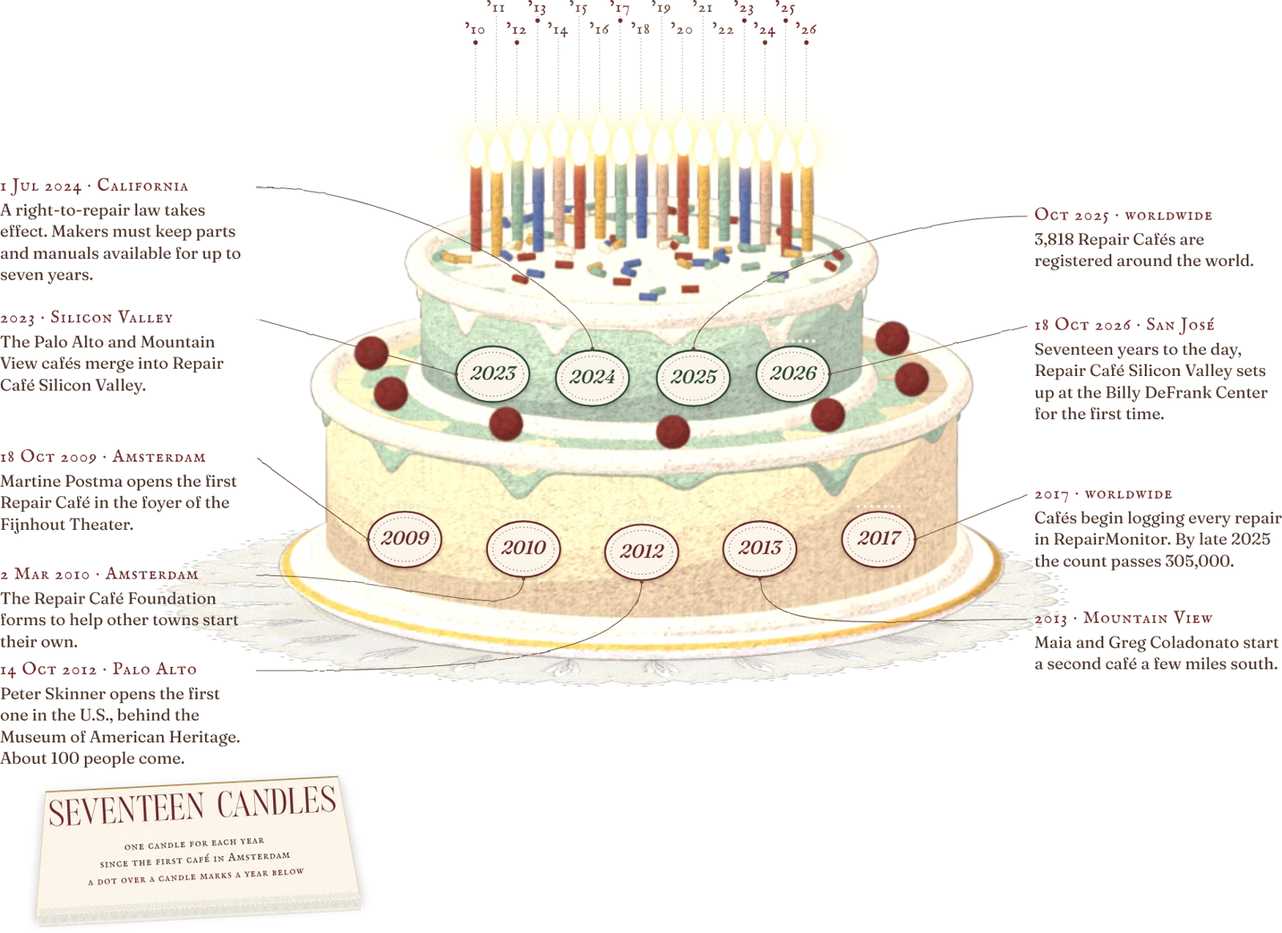
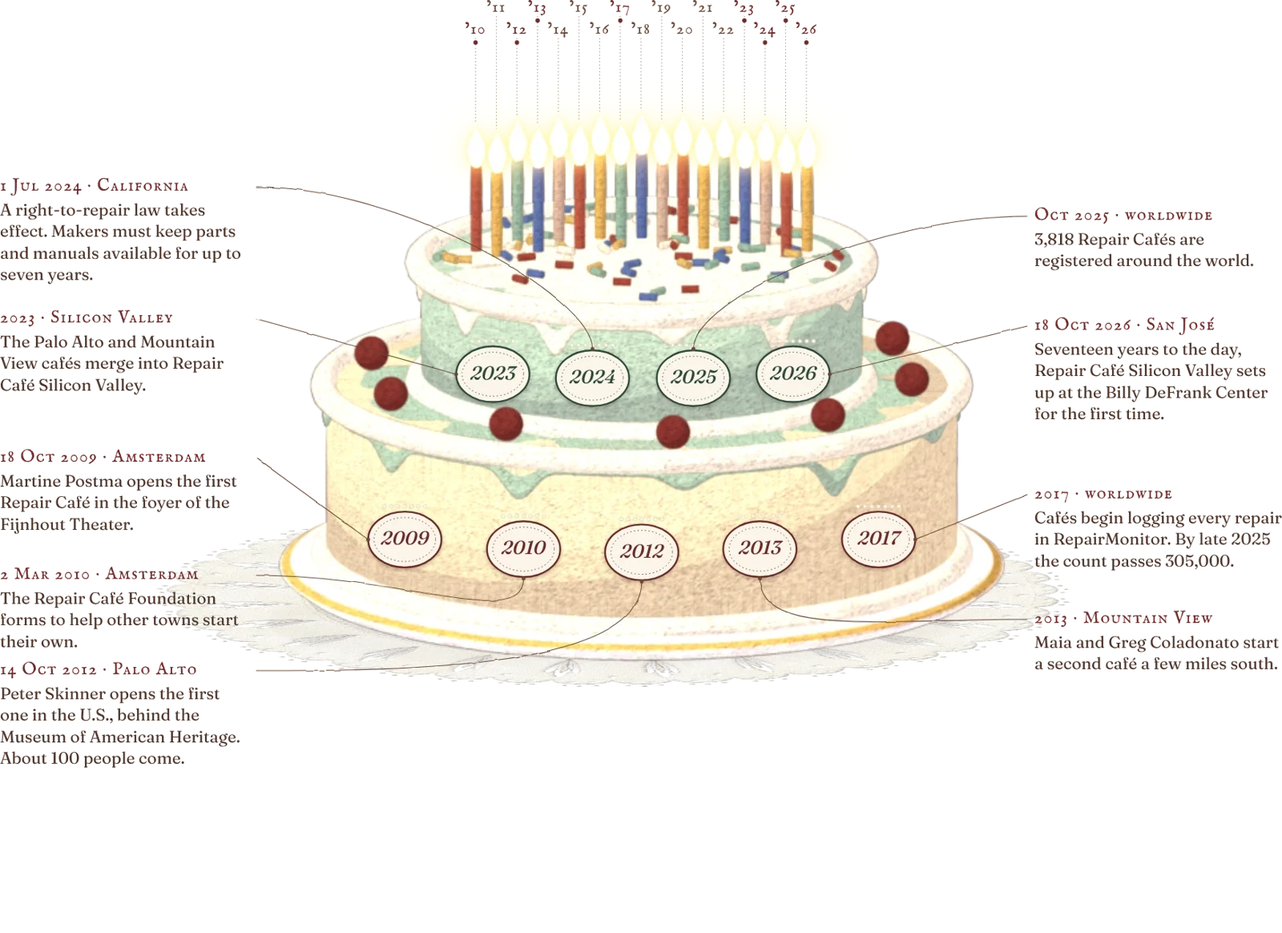
Repair paper v86: a headline on top of every graphic; the cake card is a live header; Jazz named at the stereo; mixer back above the quotes; new close; two history sentences hidden
Claude-Session: https://claude.ai/code/session_018Sp8eHQYD7PD1zKgAsyb4V

Changed region(s): [[0.0312, 0.8351, 0.2812, 1.0]]

diff --git a/repair/index.html b/repair/index.html
@@ -953,10 +953,10 @@ body.editing .tix{display:none}
 <header class="hero" id="top"><figure class="photo wide herophoto"><img class="" src="img/g_fr_feature.webp" alt="A pair of white sneakers on a dark rug, a band of iridescent light falling across them" style="--l:0%;--t:0%;--w:100%;--r:-1.5deg;--z:2;--ml:0%;--mt:4%;--mw:100%" loading="eager" fetchpriority="high" decoding="async"><figcaption class="cap">A rainbow of light fell across my shoes at Casa, where I lived during my first year. <span class="credit">Photo: Cynthia</span></figcaption></figure>
 <div class="col herotext"><div class="kick">a visual story · Repair Café Silicon Valley</div><h1>Who Decides What’s Worth Saving?</h1><p class="by">By Cynthia</p></div></header>
 <div class="col"><p>I arrived in America wearing these shoes. They accompanied me on my travels and throughout my first year at SCU. By the time we moved, they were badly worn, but I wanted to keep them. My mother threw them away anyway. She’d done the same with all the shoes I’d worn before.</p></div>
-<div class="tw" style="--tm:url(img/tw2_mask.webp);--tr:url(img/tw2_rim.webp)"><section class="part" id="history"><div class="rim"></div><div class="col"><div class="kick">01</div><h2 id="hist-h">Seventeen Candles</h2><p>Amsterdam journalist Martine Postma kept seeing discarded belongings on rubbish-collection days that might still have been usable. Finding someone to fix an old appliance had become harder than buying a replacement.</p><p>In 2009, she reported on <a class="src" href="https://platform21.nl/id/4360.html" target="_blank" rel="noopener">Platform21’s Repair Manifesto</a>, which argued that mending could add to an object’s history. Inspired, she began recruiting volunteer repairers, starting with a friend’s handy husband. A carpenter, a seamstress, and others followed.</p><p>On October 18, dozens arrived at Amsterdam’s Fijnhout Theatre with broken belongings. The idea brought together people who wanted to keep their possessions and people who enjoyed the challenge of fixing them.</p><p>By 2012, Repair Café had reached Palo Alto, where volunteers welcomed objects regardless of their age or condition, provided their owners wanted to keep them.</p><p>Exactly seventeen years later, on October 18, 2026, I visited Repair Café Silicon Valley in San José.</p></div>
+<div class="tw" style="--tm:url(img/tw2_mask.webp);--tr:url(img/tw2_rim.webp)"><section class="part" id="history"><div class="rim"></div><div class="col"><div class="kick">01</div><h2 id="hist-h">Seventeen Candles</h2><p>Amsterdam journalist Martine Postma kept seeing discarded belongings on rubbish-collection days that might still have been usable. Finding someone to fix an old appliance had become harder than buying a replacement.</p><p>In 2009, she reported on <a class="src" href="https://platform21.nl/id/4360.html" target="_blank" rel="noopener">Platform21’s Repair Manifesto</a>, which argued that mending could add to an object’s history.<span data-v7hidden="1" style="display:none"> Inspired, she began recruiting volunteer repairers, starting with a friend’s handy husband. A carpenter, a seamstress, and others followed.</span></p><p>On October 18, dozens arrived at Amsterdam’s Fijnhout Theatre with broken belongings. The idea brought together people who wanted to keep their possessions and people who enjoyed the challenge of fixing them.</p><p>By 2012, Repair Café had reached Palo Alto, where volunteers welcomed objects regardless of their age or condition, provided their owners wanted to keep them.</p><p>Exactly seventeen years later, on October 18, 2026, I visited Repair Café Silicon Valley in San José.</p></div>
 <figure class="cfig wide plate cakefig"><button class="plbtn" data-pl="cake" data-name="seventeen candles" aria-label="Open the plate seventeen candles full size"><img class="plimg" src="img/pl_cake.webp" alt="A three-tier cake with seventeen candles, one for each year from 2009 to 2026, its medallions marking the years the movement grew" loading="lazy" decoding="async"></button></figure>
 <figure class="photo"><img class="" src="img/g_fr_group.webp" alt="Jazz and other volunteer fixers lean over a table of tools at an earlier Repair Café Silicon Valley event" style="--l:0%;--t:4%;--w:90%;--r:-2deg;--z:2;--ml:0%;--mt:2%;--mw:100%" loading="lazy" decoding="async"><figcaption class="cap">Photo: Cynthia.</figcaption></figure></section></div><div class="tw" style="--tm:url(img/tw0_mask.webp);--tr:url(img/tw0_rim.webp)"><section class="part" id="counter-s"><div class="rim"></div><div class="col"><div class="kick">02</div><h2 id="ctr-h">What Comes Through the Door</h2><p>At Repair Café, visitors check in with their broken belongings and are matched with volunteers who might know how to fix them. Rather than leaving their things behind, owners are encouraged to stay, ask questions, and lend a hand.</p></div>
-<figure class="cfig wide scrollfig"><section class="scrolly" id="counter" data-step="0" aria-label="What comes through the door"><div class="sstage"><svg class="ctrSvg" viewBox="0 0 900 540" aria-hidden="true"><g class="st s0"><image href="img/st_intake.webp" x="748" y="130" width="152" height="228"/><path class="qline" d="M20 378 H 742" fill="none"/></g><g class="st s1"><g transform="translate(48 300)"><rect x="-30" y="-26" width="52" height="52" rx="8" class="plugb"/><rect x="22" y="-16" width="14" height="32" rx="2" class="plugm"/><path d="M26 -9 h6 M26 -2 h6 M26 5 h6 M26 12 h6" class="plugl"/></g><line x1="100.0" y1="470" x2="100.0" y2="486" class="rul"/><text class="tiny" x="100.0" y="504" text-anchor="middle">0%</text><line x1="176.0" y1="470" x2="176.0" y2="478" class="rul"/><line x1="252.0" y1="470" x2="252.0" y2="478" class="rul"/><line x1="328.0" y1="470" x2="328.0" y2="478" class="rul"/><line x1="404.0" y1="470" x2="404.0" y2="478" class="rul"/><line x1="480.0" y1="470" x2="480.0" y2="486" class="rul"/><text class="tiny" x="480.0" y="504" text-anchor="middle">50%</text><line x1="556.0" y1="470" x2="556.0" y2="478" class="rul"/><line x1="632.0" y1="470" x2="632.0" y2="478" class="rul"/><line x1="708.0" y1="470" x2="708.0" y2="478" class="rul"/><line x1="784.0" y1="470" x2="784.0" y2="478" class="rul"/><line x1="860.0" y1="470" x2="860.0" y2="486" class="rul"/><text class="tiny" x="860.0" y="504" text-anchor="middle">100%</text><line x1="100" y1="470" x2="860" y2="470" class="rul"/><path class="strand pl" d="M84 284 C 100 224 112 224 134 224 H 503" /><path class="strand np" d="M84 316 C 100 414 112 414 134 414 H 746" /><circle class="sdot pl" cx="503" cy="224" r="8"/><circle class="sdot np" cx="746" cy="414" r="8"/><text class="big pl" x="518" y="236">53%</text><text class="note" x="518" y="260">repaired</text><text class="big np" x="761" y="426">85%</text><text class="note" x="690" y="450">repaired</text><text class="lab pl" x="134" y="96">Electrical / electronic</text><text class="lab np" x="134" y="310">Non-electrical</text></g><g class="st s2"><rect x="80" y="228" width="780" height="44" rx="4" class="tape"/><line x1="110.0" y1="228" x2="110.0" y2="244" class="tm"/><line x1="110.0" y1="272" x2="110.0" y2="256" class="tm"/><text class="tn" x="110.0" y="255" text-anchor="middle">1</text><line x1="130.0" y1="228" x2="130.0" y2="240" class="tm thin"/><line x1="150.0" y1="228" x2="150.0" y2="236" class="tm thin"/><line x1="170.0" y1="228" x2="170.0" y2="240" class="tm thin"/><line x1="190.0" y1="228" x2="190.0" y2="244" class="tm"/><line x1="190.0" y1="272" x2="190.0" y2="256" class="tm"/><text class="tn" x="190.0" y="255" text-anchor="middle">2</text><line x1="210.0" y1="228" x2="210.0" y2="240" class="tm thin"/><line x1="230.0" y1="228" x2="230.0" y2="236" class="tm thin"/><line x1="250.0" y1="228" x2="250.0" y2="240" class="tm thin"/><line x1="270.0" y1="228" x2="270.0" y2="244" class="tm"/><line x1="270.0" y1="272" x2="270.0" y2="256" class="tm"/><text class="tn" x="270.0" y="255" text-anchor="middle">3</text><line x1="290.0" y1="228" x2="290.0" y2="240" class="tm thin"/><line x1="310.0" y1="228" x2="310.0" y2="236" class="tm thin"/><line x1="330.0" y1="228" x2="330.0" y2="240" class="tm thin"/><line x1="350.0" y1="228" x2="350.0" y2="244" class="tm"/><line x1="350.0" y1="272" x2="350.0" y2="256" class="tm"/><text class="tn" x="350.0" y="255" text-anchor="middle">4</text><line x1="370.0" y1="228" x2="370.0" y2="240" class="tm thin"/><line x1="390.0" y1="228" x2="390.0" y2="236" class="tm thin"/><line x1="410.0" y1="228" x2="410.0" y2="240" class="tm thin"/><line x1="430.0" y1="228" x2="430.0" y2="244" class="tm"/><line x1="430.0" y1="272" x2="430.0" y2="256" class="tm"/><text class="tn" x="430.0" y="255" text-anchor="middle">5</text><line x1="450.0" y1="228" x2="450.0" y2="240" class="tm thin"/><line x1="470.0" y1="228" x2="470.0" y2="236" class="tm thin"/><line x1="490.0" y1="228" x2="490.0" y2="240" class="tm thin"/><line x1="510.0" y1="228" x2="510.0" y2="244" class="tm"/><line x1="510.0" y1="272" x2="510.0" y2="256" class="tm"/><text class="tn" x="510.0" y="255" text-anchor="middle">6</text><line x1="530.0" y1="228" x2="530.0" y2="240" class="tm thin"/><line x1="550.0" y1="228" x2="550.0" y2="236" class="tm thin"/><line x1="570.0" y1="228" x2="570.0" y2="240" class="tm thin"/><line x1="590.0" y1="228" x2="590.0" y2="244" class="tm"/><line x1="590.0" y1="272" x2="590.0" y2="256" class="tm"/><text class="tn" x="590.0" y="255" text-anchor="middle">7</text><line x1="610.0" y1="228" x2="610.0" y2="240" class="tm thin"/><line x1="630.0" y1="228" x2="630.0" y2="236" class="tm thin"/><line x1="650.0" y1="228" x2="650.0" y2="240" class="tm thin"/><line x1="670.0" y1="228" x2="670.0" y2="244" class="tm"/><line x1="670.0" y1="272" x2="670.0" y2="256" class="tm"/><text class="tn" x="670.0" y="255" text-anchor="middle">8</text><line x1="690.0" y1="228" x2="690.0" y2="240" class="tm thin"/><line x1="710.0" y1="228" x2="710.0" y2="236" class="tm thin"/><line x1="730.0" y1="228" x2="730.0" y2="240" class="tm thin"/><line x1="750.0" y1="228" x2="750.0" y2="244" class="tm"/><line x1="750.0" y1="272" x2="750.0" y2="256" class="tm"/><text class="tn" x="750.0" y="255" text-anchor="middle">9</text><line x1="770.0" y1="228" x2="770.0" y2="240" class="tm thin"/><line x1="790.0" y1="228" x2="790.0" y2="236" class="tm thin"/><line x1="810.0" y1="228" x2="810.0" y2="240" class="tm thin"/><line x1="830.0" y1="228" x2="830.0" y2="244" class="tm"/><line x1="830.0" y1="272" x2="830.0" y2="256" class="tm"/><text class="tn" x="830.0" y="255" text-anchor="middle">10</text><rect x="630.0" y="228" width="80.0" height="44" class="band"/><text class="tiny" x="670.0" y="288" text-anchor="middle">Most common score</text><g class="gd all"><line x1="574.0" y1="272" x2="574.0" y2="308" class="gl"/><circle cx="574.0" cy="316" r="7"/><text class="gv" x="586.0" y="321">6.8</text><text class="note" x="614.0" y="321">Overall average</text></g><g class="gd ok"><line x1="638.0" y1="272" x2="638.0" y2="346" class="gl"/><circle cx="638.0" cy="354" r="7"/><text class="gv" x="650.0" y="359">7.6</text><text class="note" x="678.0" y="359">Successfully repaired</text></g><g class="gd no"><line x1="390.0" y1="272" x2="390.0" y2="346" class="gl"/><circle cx="390.0" cy="354" r="7"/><text class="gv" x="402.0" y="359">4.5</text><text class="note" x="430.0" y="359">Unsuccessful repairs</text></g><g class="gd pl"><line x1="550.0" y1="272" x2="550.0" y2="384" class="gl"/><circle cx="550.0" cy="392" r="7"/><text class="gv" x="538.0" y="397" text-anchor="end">6.5</text><text class="note" x="508.0" y="397" text-anchor="end">Electrical or electronic</text></g><g class="gd np"><line x1="630.0" y1="272" x2="630.0" y2="384" class="gl"/><circle cx="630.0" cy="392" r="7"/><text class="gv" x="642.0" y="397">7.5</text><text class="note" x="670.0" y="397">Non-electrical</text></g><g class="hi ok"><text class="note" x="860.0" y="450" text-anchor="end">Trousers received the most perfect 10s.</text></g><g class="hi no"><text class="note" x="80.0" y="450">Coffee makers received the most 1s.</text></g></g><g class="ob plug" data-k="coffeemaker" style="--x0:696px;--y0:340px;--x1:135px;--y1:205px;--x2:110.0px;--y2:226px;--s2:1"><image href="img/o_coffeemaker.webp" x="-98.0" y="-162.3" width="191.0" height="191.0"/><text class="rk" x="0" y="64" text-anchor="middle">1</text></g><g class="ob nop" data-k="trousers" style="--x0:620px;--y0:354px;--x1:135px;--y1:395px;--x2:662.0px;--y2:226px;--s2:1"><image href="img/o_trousers.webp" x="-77.8" y="-127.3" width="156.2" height="156.2"/><text class="rk" x="0" y="50" text-anchor="middle">2</text></g><g class="ob plug" data-k="vacuum" style="--x0:544px;--y0:344px;--x1:207px;--y1:205px;--x2:207px;--y2:205px;--s2:0.4"><image href="img/o_vacuum.webp" x="-83.4" y="-122.1" width="155.7" height="155.7"/><text class="rk" x="0" y="60" text-anchor="middle">3</text></g><g class="ob plug" data-k="lamp" style="--x0:470px;--y0:356px;--x1:279px;--y1:205px;--x2:279px;--y2:205px;--s2:0.4"><image href="img/o_lamp.webp" x="-87.6" y="-151.3" width="175.2" height="175.2"/><text class="rk" x="0" y="48" text-anchor="middle">4</text></g><g class="ob nop" data-k="bike" style="--x0:396px;--y0:346px;--x1:245px;--y1:395px;--x2:245px;--y2:395px;--s2:0.4"><image href="img/o_bike.webp" x="-94.2" y="-152.1" width="186.6" height="186.6"/><text class="rk" x="0" y="58" text-anchor="middle">5</text></g><g class="ob nop" data-k="clock" style="--x0:324px;--y0:358px;--x1:355px;--y1:395px;--x2:355px;--y2:395px;--s2:0.4"><image href="img/o_clock.webp" x="-72.6" y="-125.1" width="144.2" height="144.2"/><text class="rk" x="0" y="46" text-anchor="middle">6</text></g><g class="ob plug" data-k="sewingmachine" style="--x0:252px;--y0:348px;--x1:351px;--y1:205px;--x2:351px;--y2:205px;--s2:0.4"><image href="img/o_sewingmachine.webp" x="-85.5" y="-124.0" width="164.0" height="164.0"/><text class="rk" x="0" y="56" text-anchor="middle">7</text></g><g class="ob plug" data-k="laptop" style="--x0:180px;--y0:360px;--x1:423px;--y1:205px;--x2:423px;--y2:205px;--s2:0.4"><image href="img/o_laptop.webp" x="-109.2" y="-157.6" width="216.3" height="216.3"/><text class="rk" x="0" y="44" text-anchor="middle">8</text></g><g class="ob plug" data-k="radio" style="--x0:110px;--y0:350px;--x1:495px;--y1:205px;--x2:534.0px;--y2:226px;--s2:1"><image href="img/o_radio.webp" x="-83.3" y="-122.7" width="165.7" height="165.7"/><text class="rk" x="0" y="54" text-anchor="middle">9</text></g><g class="ob nop" data-k="coat" style="--x0:44px;--y0:362px;--x1:465px;--y1:395px;--x2:465px;--y2:395px;--s2:0.4"><image href="img/o_coat.webp" x="-78.2" y="-130.0" width="156.2" height="156.2"/><text class="rk" x="0" y="42" text-anchor="middle">10</text></g></svg><div class="sclaim"><div class="sc" data-i="0"><div class="sno">2019 · 67 Repair Cafés · 8 countries</div><div class="stt">01 · What Comes Through the Door</div><p>Coffee makers led the list, with 1,053 repairs recorded.</p><div class="sfoot"><i class="mag" style="--c:#3C6FD6"></i>1 of 3 · Most common items</div></div><div class="sc" data-i="1"><div class="stt">02 · Electrical / Non-Electrical</div><p>About two-thirds of all recorded repairs involved electrical or electronic items.</p><div class="sfoot"><i class="mag" style="--c:#F2CF3A"></i>2 of 3 · Repair success</div><div class="ctl"><span>Highlight</span><button class="hb" data-hi="pl">Electrical</button><button class="hb" data-hi="np">Non-electrical</button></div></div><div class="sc" data-i="2"><div class="sno">1–10 · Repairer assessment</div><div class="stt">03 · Repairability, Rated</div><p>Repairers assigned scores to 10,160 repairs. Their assessments reflected the object’s design, available parts and tools, and their own experience.</p><p class="ssub">Trousers received the most perfect 10s. Coffee makers received the most 1s.</p><div class="sfoot"><i class="mag" style="--c:#3FBF6B"></i>3 of 3 · Repairability</div><div class="ctl"><span>Show</span><button class="hb" data-hi="ok">Successful repairs</button><button class="hb" data-hi="no">Unsuccessful repairs</button></div></div></div></div><div class="steps"><div class="step"><div class="ccard"></div></div><div class="step"><div class="ccard"></div></div><div class="step"><div class="ccard"></div></div></div></section><figcaption class="cap">Data: <a class="src" href="https://www.repaircafe.org/wp-content/uploads/2020/05/RepairMonitor_analysis_2019_05052020_ENGLISH-1.pdf" target="_blank" rel="noopener">RepairMonitor 2019</a>, recording 13,609 repairs at 67 participating cafés in eight countries.</figcaption></figure></section></div><div class="tw" style="--tm:url(img/tw1_mask.webp);--tr:url(img/tw1_rim.webp)"><section class="part band" id="bench"><div class="rim"></div><div class="col"><div class="kick">03</div><h2 id="bench-h">At the Workbench</h2><p>Screws and spare parts were meticulously sorted into labeled compartments, alongside more varieties of screwdriver bits than I knew existed. For all that preparation, the volunteers could never be quite sure what a repair would demand.</p><p>At a Repair Café in San José, I brought in something considerably older: a stereo manufactured in August 2003.<span class="pbr">It had two units connected by a single control cable. Inside that cable were twenty separate wires, all of which needed to be reconnected. A replacement cable wasn’t available, so at bench 2, a volunteer opened the stereo, stripped the wires, and soldered them back onto their pins by hand.</span><span class="pbr">The work demanded twenty small connections in a machine that was already twenty-three years old.</span></p><p>Aaron, one of the volunteers, liked that every repair was a little different. Even familiar problems could call for a new approach, and he enjoyed figuring out what might work when the usual methods didn’t quite fit.</p></div>
+<figure class="cfig wide scrollfig"><section class="scrolly" id="counter" data-step="0" aria-label="What comes through the door"><div class="sstage"><svg class="ctrSvg" viewBox="0 0 900 540" aria-hidden="true"><g class="st s0"><image href="img/st_intake.webp" x="748" y="130" width="152" height="228"/><path class="qline" d="M20 378 H 742" fill="none"/></g><g class="st s1"><g transform="translate(48 300)"><rect x="-30" y="-26" width="52" height="52" rx="8" class="plugb"/><rect x="22" y="-16" width="14" height="32" rx="2" class="plugm"/><path d="M26 -9 h6 M26 -2 h6 M26 5 h6 M26 12 h6" class="plugl"/></g><line x1="100.0" y1="470" x2="100.0" y2="486" class="rul"/><text class="tiny" x="100.0" y="504" text-anchor="middle">0%</text><line x1="176.0" y1="470" x2="176.0" y2="478" class="rul"/><line x1="252.0" y1="470" x2="252.0" y2="478" class="rul"/><line x1="328.0" y1="470" x2="328.0" y2="478" class="rul"/><line x1="404.0" y1="470" x2="404.0" y2="478" class="rul"/><line x1="480.0" y1="470" x2="480.0" y2="486" class="rul"/><text class="tiny" x="480.0" y="504" text-anchor="middle">50%</text><line x1="556.0" y1="470" x2="556.0" y2="478" class="rul"/><line x1="632.0" y1="470" x2="632.0" y2="478" class="rul"/><line x1="708.0" y1="470" x2="708.0" y2="478" class="rul"/><line x1="784.0" y1="470" x2="784.0" y2="478" class="rul"/><line x1="860.0" y1="470" x2="860.0" y2="486" class="rul"/><text class="tiny" x="860.0" y="504" text-anchor="middle">100%</text><line x1="100" y1="470" x2="860" y2="470" class="rul"/><path class="strand pl" d="M84 284 C 100 224 112 224 134 224 H 503" /><path class="strand np" d="M84 316 C 100 414 112 414 134 414 H 746" /><circle class="sdot pl" cx="503" cy="224" r="8"/><circle class="sdot np" cx="746" cy="414" r="8"/><text class="big pl" x="518" y="236">53%</text><text class="note" x="518" y="260">repaired</text><text class="big np" x="761" y="426">85%</text><text class="note" x="690" y="450">repaired</text><text class="lab pl" x="134" y="96">Electrical / electronic</text><text class="lab np" x="134" y="310">Non-electrical</text></g><g class="st s2"><rect x="80" y="228" width="780" height="44" rx="4" class="tape"/><line x1="110.0" y1="228" x2="110.0" y2="244" class="tm"/><line x1="110.0" y1="272" x2="110.0" y2="256" class="tm"/><text class="tn" x="110.0" y="255" text-anchor="middle">1</text><line x1="130.0" y1="228" x2="130.0" y2="240" class="tm thin"/><line x1="150.0" y1="228" x2="150.0" y2="236" class="tm thin"/><line x1="170.0" y1="228" x2="170.0" y2="240" class="tm thin"/><line x1="190.0" y1="228" x2="190.0" y2="244" class="tm"/><line x1="190.0" y1="272" x2="190.0" y2="256" class="tm"/><text class="tn" x="190.0" y="255" text-anchor="middle">2</text><line x1="210.0" y1="228" x2="210.0" y2="240" class="tm thin"/><line x1="230.0" y1="228" x2="230.0" y2="236" class="tm thin"/><line x1="250.0" y1="228" x2="250.0" y2="240" class="tm thin"/><line x1="270.0" y1="228" x2="270.0" y2="244" class="tm"/><line x1="270.0" y1="272" x2="270.0" y2="256" class="tm"/><text class="tn" x="270.0" y="255" text-anchor="middle">3</text><line x1="290.0" y1="228" x2="290.0" y2="240" class="tm thin"/><line x1="310.0" y1="228" x2="310.0" y2="236" class="tm thin"/><line x1="330.0" y1="228" x2="330.0" y2="240" class="tm thin"/><line x1="350.0" y1="228" x2="350.0" y2="244" class="tm"/><line x1="350.0" y1="272" x2="350.0" y2="256" class="tm"/><text class="tn" x="350.0" y="255" text-anchor="middle">4</text><line x1="370.0" y1="228" x2="370.0" y2="240" class="tm thin"/><line x1="390.0" y1="228" x2="390.0" y2="236" class="tm thin"/><line x1="410.0" y1="228" x2="410.0" y2="240" class="tm thin"/><line x1="430.0" y1="228" x2="430.0" y2="244" class="tm"/><line x1="430.0" y1="272" x2="430.0" y2="256" class="tm"/><text class="tn" x="430.0" y="255" text-anchor="middle">5</text><line x1="450.0" y1="228" x2="450.0" y2="240" class="tm thin"/><line x1="470.0" y1="228" x2="470.0" y2="236" class="tm thin"/><line x1="490.0" y1="228" x2="490.0" y2="240" class="tm thin"/><line x1="510.0" y1="228" x2="510.0" y2="244" class="tm"/><line x1="510.0" y1="272" x2="510.0" y2="256" class="tm"/><text class="tn" x="510.0" y="255" text-anchor="middle">6</text><line x1="530.0" y1="228" x2="530.0" y2="240" class="tm thin"/><line x1="550.0" y1="228" x2="550.0" y2="236" class="tm thin"/><line x1="570.0" y1="228" x2="570.0" y2="240" class="tm thin"/><line x1="590.0" y1="228" x2="590.0" y2="244" class="tm"/><line x1="590.0" y1="272" x2="590.0" y2="256" class="tm"/><text class="tn" x="590.0" y="255" text-anchor="middle">7</text><line x1="610.0" y1="228" x2="610.0" y2="240" class="tm thin"/><line x1="630.0" y1="228" x2="630.0" y2="236" class="tm thin"/><line x1="650.0" y1="228" x2="650.0" y2="240" class="tm thin"/><line x1="670.0" y1="228" x2="670.0" y2="244" class="tm"/><line x1="670.0" y1="272" x2="670.0" y2="256" class="tm"/><text class="tn" x="670.0" y="255" text-anchor="middle">8</text><line x1="690.0" y1="228" x2="690.0" y2="240" class="tm thin"/><line x1="710.0" y1="228" x2="710.0" y2="236" class="tm thin"/><line x1="730.0" y1="228" x2="730.0" y2="240" class="tm thin"/><line x1="750.0" y1="228" x2="750.0" y2="244" class="tm"/><line x1="750.0" y1="272" x2="750.0" y2="256" class="tm"/><text class="tn" x="750.0" y="255" text-anchor="middle">9</text><line x1="770.0" y1="228" x2="770.0" y2="240" class="tm thin"/><line x1="790.0" y1="228" x2="790.0" y2="236" class="tm thin"/><line x1="810.0" y1="228" x2="810.0" y2="240" class="tm thin"/><line x1="830.0" y1="228" x2="830.0" y2="244" class="tm"/><line x1="830.0" y1="272" x2="830.0" y2="256" class="tm"/><text class="tn" x="830.0" y="255" text-anchor="middle">10</text><rect x="630.0" y="228" width="80.0" height="44" class="band"/><text class="tiny" x="670.0" y="288" text-anchor="middle">Most common score</text><g class="gd all"><line x1="574.0" y1="272" x2="574.0" y2="308" class="gl"/><circle cx="574.0" cy="316" r="7"/><text class="gv" x="586.0" y="321">6.8</text><text class="note" x="614.0" y="321">Overall average</text></g><g class="gd ok"><line x1="638.0" y1="272" x2="638.0" y2="346" class="gl"/><circle cx="638.0" cy="354" r="7"/><text class="gv" x="650.0" y="359">7.6</text><text class="note" x="678.0" y="359">Successfully repaired</text></g><g class="gd no"><line x1="390.0" y1="272" x2="390.0" y2="346" class="gl"/><circle cx="390.0" cy="354" r="7"/><text class="gv" x="402.0" y="359">4.5</text><text class="note" x="430.0" y="359">Unsuccessful repairs</text></g><g class="gd pl"><line x1="550.0" y1="272" x2="550.0" y2="384" class="gl"/><circle cx="550.0" cy="392" r="7"/><text class="gv" x="538.0" y="397" text-anchor="end">6.5</text><text class="note" x="508.0" y="397" text-anchor="end">Electrical or electronic</text></g><g class="gd np"><line x1="630.0" y1="272" x2="630.0" y2="384" class="gl"/><circle cx="630.0" cy="392" r="7"/><text class="gv" x="642.0" y="397">7.5</text><text class="note" x="670.0" y="397">Non-electrical</text></g><g class="hi ok"><text class="note" x="860.0" y="450" text-anchor="end">Trousers received the most perfect 10s.</text></g><g class="hi no"><text class="note" x="80.0" y="450">Coffee makers received the most 1s.</text></g></g><g class="ob plug" data-k="coffeemaker" style="--x0:696px;--y0:340px;--x1:135px;--y1:205px;--x2:110.0px;--y2:226px;--s2:1"><image href="img/o_coffeemaker.webp" x="-98.0" y="-162.3" width="191.0" height="191.0"/><text class="rk" x="0" y="64" text-anchor="middle">1</text></g><g class="ob nop" data-k="trousers" style="--x0:620px;--y0:354px;--x1:135px;--y1:395px;--x2:662.0px;--y2:226px;--s2:1"><image href="img/o_trousers.webp" x="-77.8" y="-127.3" width="156.2" height="156.2"/><text class="rk" x="0" y="50" text-anchor="middle">2</text></g><g class="ob plug" data-k="vacuum" style="--x0:544px;--y0:344px;--x1:207px;--y1:205px;--x2:207px;--y2:205px;--s2:0.4"><image href="img/o_vacuum.webp" x="-83.4" y="-122.1" width="155.7" height="155.7"/><text class="rk" x="0" y="60" text-anchor="middle">3</text></g><g class="ob plug" data-k="lamp" style="--x0:470px;--y0:356px;--x1:279px;--y1:205px;--x2:279px;--y2:205px;--s2:0.4"><image href="img/o_lamp.webp" x="-87.6" y="-151.3" width="175.2" height="175.2"/><text class="rk" x="0" y="48" text-anchor="middle">4</text></g><g class="ob nop" data-k="bike" style="--x0:396px;--y0:346px;--x1:245px;--y1:395px;--x2:245px;--y2:395px;--s2:0.4"><image href="img/o_bike.webp" x="-94.2" y="-152.1" width="186.6" height="186.6"/><text class="rk" x="0" y="58" text-anchor="middle">5</text></g><g class="ob nop" data-k="clock" style="--x0:324px;--y0:358px;--x1:355px;--y1:395px;--x2:355px;--y2:395px;--s2:0.4"><image href="img/o_clock.webp" x="-72.6" y="-125.1" width="144.2" height="144.2"/><text class="rk" x="0" y="46" text-anchor="middle">6</text></g><g class="ob plug" data-k="sewingmachine" style="--x0:252px;--y0:348px;--x1:351px;--y1:205px;--x2:351px;--y2:205px;--s2:0.4"><image href="img/o_sewingmachine.webp" x="-85.5" y="-124.0" width="164.0" height="164.0"/><text class="rk" x="0" y="56" text-anchor="middle">7</text></g><g class="ob plug" data-k="laptop" style="--x0:180px;--y0:360px;--x1:423px;--y1:205px;--x2:423px;--y2:205px;--s2:0.4"><image href="img/o_laptop.webp" x="-109.2" y="-157.6" width="216.3" height="216.3"/><text class="rk" x="0" y="44" text-anchor="middle">8</text></g><g class="ob plug" data-k="radio" style="--x0:110px;--y0:350px;--x1:495px;--y1:205px;--x2:534.0px;--y2:226px;--s2:1"><image href="img/o_radio.webp" x="-83.3" y="-122.7" width="165.7" height="165.7"/><text class="rk" x="0" y="54" text-anchor="middle">9</text></g><g class="ob nop" data-k="coat" style="--x0:44px;--y0:362px;--x1:465px;--y1:395px;--x2:465px;--y2:395px;--s2:0.4"><image href="img/o_coat.webp" x="-78.2" y="-130.0" width="156.2" height="156.2"/><text class="rk" x="0" y="42" text-anchor="middle">10</text></g></svg><div class="sclaim"><div class="sc" data-i="0"><div class="sno">2019 · 67 Repair Cafés · 8 countries</div><div class="stt">01 · What Comes Through the Door</div><p>Coffee makers led the list, with 1,053 repairs recorded.</p><div class="sfoot"><i class="mag" style="--c:#3C6FD6"></i>1 of 3 · Most common items</div></div><div class="sc" data-i="1"><div class="stt">02 · Electrical / Non-Electrical</div><p>About two-thirds of all recorded repairs involved electrical or electronic items.</p><div class="sfoot"><i class="mag" style="--c:#F2CF3A"></i>2 of 3 · Repair success</div><div class="ctl"><span>Highlight</span><button class="hb" data-hi="pl">Electrical</button><button class="hb" data-hi="np">Non-electrical</button></div></div><div class="sc" data-i="2"><div class="sno">1–10 · Repairer assessment</div><div class="stt">03 · Repairability, Rated</div><p>Repairers assigned scores to 10,160 repairs. Their assessments reflected the object’s design, available parts and tools, and their own experience.</p><p class="ssub">Trousers received the most perfect 10s. Coffee makers received the most 1s.</p><div class="sfoot"><i class="mag" style="--c:#3FBF6B"></i>3 of 3 · Repairability</div><div class="ctl"><span>Show</span><button class="hb" data-hi="ok">Successful repairs</button><button class="hb" data-hi="no">Unsuccessful repairs</button></div></div></div></div><div class="steps"><div class="step"><div class="ccard"></div></div><div class="step"><div class="ccard"></div></div><div class="step"><div class="ccard"></div></div></div></section><figcaption class="cap">Data: <a class="src" href="https://www.repaircafe.org/wp-content/uploads/2020/05/RepairMonitor_analysis_2019_05052020_ENGLISH-1.pdf" target="_blank" rel="noopener">RepairMonitor 2019</a>, recording 13,609 repairs at 67 participating cafés in eight countries.</figcaption></figure></section></div><div class="tw" style="--tm:url(img/tw1_mask.webp);--tr:url(img/tw1_rim.webp)"><section class="part band" id="bench"><div class="rim"></div><div class="col"><div class="kick">03</div><h2 id="bench-h">At the Workbench</h2><p>Screws and spare parts were meticulously sorted into labeled compartments, alongside more varieties of screwdriver bits than I knew existed. For all that preparation, the volunteers could never be quite sure what a repair would demand.</p><p>At a Repair Café in San José, I brought in something considerably older: a stereo manufactured in August 2003.<span class="pbr">It had two units connected by a single control cable. Inside that cable were twenty separate wires, all of which needed to be reconnected. A replacement cable wasn’t available, so at bench 2, a volunteer named Jazz opened the stereo, stripped the wires, and soldered them back onto their pins by hand.</span><span class="pbr">The work demanded twenty small connections in a machine that was already twenty-three years old.</span><span class="pbr">When he finished, the blue ring on the lid lit up.</span></p><p>Aaron, one of the volunteers, liked that every repair was a little different. Even familiar problems could call for a new approach, and he enjoyed figuring out what might work when the usual methods didn’t quite fit.</p></div>
 <figure class="cfig wide pegboard"><div class="stage" style="--ar:1/0.6;--mar:1/1.72"><img class="pc " src="img/st_kitchen.webp" alt="The electronics workbench with its pegboard of tools, a paper model" data-view="bench" data-stop="3|bench 2|.5|.66" style="--l:0%;--t:4%;--w:56%;--r:1.5deg;--z:2;--ml:0%;--mt:0%;--mw:100%" loading="lazy" decoding="async"><img class="pc " src="img/g_fr_bench.webp" alt="A fixer at the electronics table, inside the opened back of a machine, with a probe in one hand and a meter at his elbow"  style="--l:51%;--t:12%;--w:49%;--r:-1.5deg;--z:3;--ml:4%;--mt:55%;--mw:92%" loading="lazy" decoding="async"><div class="pc stk" style="--l:46%;--t:6%;--w:13%;--r:-10deg;--z:5;--ml:0%;--mt:52%;--mw:17%"><img src="img/t_iron.webp" alt="" loading="lazy" decoding="async"><span class="stl">soldered all 20 strands</span></div><div class="pc stk" style="--l:93%;--t:46%;--w:10%;--r:24deg;--z:5;--ml:84%;--mt:88%;--mw:14%"><img src="img/t_cutters.webp" alt="" loading="lazy" decoding="async"><span class="stl">strips each strand</span></div><div class="pc stk" style="--l:47%;--t:50%;--w:8%;--r:-8deg;--z:5;--ml:2%;--mt:92%;--mw:11%"><img src="img/t_flux.webp" alt="" loading="lazy" decoding="async"><span class="stl">makes the solder flow</span></div></div></figure>
 <figure class="cfig wide plate"><button class="plbtn" data-pl="disc" data-name="under the cover" aria-label="Open the stereo drawing full size"><img class="plimg" src="img/pl_disc.webp" alt="My stereo lifted apart in layers: lid, disc, laser, main board, and the twenty-strand control cable running to the second box" loading="lazy" decoding="async"></button><p class="enc">Illustration: Cynthia. Exterior details and cable arrangement based on photographs of the stereo; internal CD components are representative.</p></figure></section></div><div class="tw" style="--tm:url(img/tw3_mask.webp);--tr:url(img/tw3_rim.webp)"><section class="part" id="volunteer"><div class="rim"></div><div class="col"><div class="kick">04</div><h2 id="vol-h">The People at the Tables</h2><p>At the sewing table, the repair tickets were remarkably specific: “Needle hits the foot” and “Tear in the inner thigh.”</p></div>
 <figure class="cfig volfig"><div class="stage" style="--ar:1/0.8;--mar:1/1.55"><img class="pc " src="img/fr_volunteer.webp" alt="A volunteer in a denim jacket bends over a repair at his table" style="--l:0%;--t:0%;--w:60%;--r:1.5deg;--z:2;--ml:0%;--mt:0%;--mw:76%" loading="lazy" decoding="async"><img class="pc " src="img/g_fr_stitch.webp" alt="Two volunteers at the sewing table, one smiling as she threads a needle" style="--l:56%;--t:40%;--w:44%;--r:-3deg;--z:3;--ml:38%;--mt:64%;--mw:62%" loading="lazy" decoding="async"><div class="pc stk" style="--l:-3%;--t:-3%;--w:9%;--r:-8deg;--z:5;--ml:-2%;--mt:-2%;--mw:13%"><img src="img/t_tomato.webp" alt="" loading="lazy" decoding="async"><span class="stl">the strawberry sharpens pins</span></div><div class="pc stk" style="--l:91%;--t:35%;--w:10%;--r:20deg;--z:5;--ml:86%;--mt:60%;--mw:14%"><img src="img/t_scissors.webp" alt="" loading="lazy" decoding="async"><span class="stl">labeled SEWING</span></div><div class="pc stk" style="--l:52%;--t:70%;--w:11%;--r:-6deg;--z:5;--ml:30%;--mt:90%;--mw:15%"><img src="img/t_spools.webp" alt="" loading="lazy" decoding="async"><span class="stl">a drawer for every color</span></div><div class="pc stk" style="--l:-4%;--t:66%;--w:18%;--r:4deg;--z:5;--ml:-2%;--mt:80%;--mw:24%"><img src="img/sew_machine.webp" alt="" loading="lazy" decoding="async"><span class="stl">three donated machines</span></div><div class="pc stk" style="--l:88%;--t:74%;--w:11%;--r:-10deg;--z:5;--ml:82%;--mt:91%;--mw:15%"><img src="img/sew_box.webp" alt="" loading="lazy" decoding="async"><span class="stl">the supply box</span></div></div></figure>
@@ -1435,6 +1435,21 @@ img.pc,.cfig .plbtn,.pola img,.pc.stk,.photo img{cursor:default !important}
 .endshot{display:none !important}
 .closecol > p.lastline{margin:54px auto 84px}
 
+/* ===== v86: one headline on top of every graphic; the cake's card is a live header ===== */
+h3.ghd,.cfig.odds h3.claim.ghd{display:block;max-width:900px;margin:0 auto 26px !important;padding:0 22px !important;border:0 !important;text-align:center;font:400 clamp(25px,2.4vw,34px)/1.08 'Androgy',var(--title) !important;text-transform:lowercase;letter-spacing:.01em;color:#2F4A78 !important;text-wrap:balance}
+#bench h3.ghd{color:#F4EFE1 !important}
+.st3wrap{margin-top:0}
+.cakecard{position:relative;width:min(460px,86%);margin:6px auto 30px;padding:18px 26px 20px;background:#FBF6EA;transform:rotate(-1.2deg);box-shadow:0 1px 0 rgba(90,60,30,.10),0 14px 22px -12px rgba(60,40,20,.38);text-align:center}
+.cakecard::after{content:'';position:absolute;left:0;right:0;bottom:-6px;height:8px;background:radial-gradient(circle at 4px 0,#FBF6EA 3.4px,transparent 3.8px) 0 0/8px 8px repeat-x}
+.cakecard h3.ghd{margin:0 0 10px !important;padding:0 !important;color:#8A2A35 !important;font-size:clamp(27px,2.6vw,38px) !important}
+.cakecard p{margin:0;font:400 12.5px/1.75 Georgia,serif;font-variant:small-caps;letter-spacing:.09em;color:#6A3A35;text-transform:lowercase}
+.cakefig .plbtn{margin-bottom:-12%}
+@media (max-width:820px){h3.ghd,.cfig.odds h3.claim.ghd{font-size:24px !important;margin-bottom:18px !important}.cakecard{padding:14px 16px 16px}.cakecard p{font-size:11px}}
+.st3 h3.st3hd{position:absolute;left:0;right:0;top:-8px;margin:0 !important;z-index:9;pointer-events:none}
+.st3wrap{padding-top:48px}
+.cakecard{width:min(600px,92%)}
+@media (max-width:820px){.st3 h3.st3hd{top:-34px}}
+
 </style>
 <script id="v70js">
 addEventListener('DOMContentLoaded',()=>{
@@ -1458,8 +1473,9 @@ const sv=(t,a,p)=>{const e=document.createElementNS(NS,t);for(const k in a)e.set
     if(tw('bench')&&tw('history')) tw('history').before(tw('bench'));
     const hs=document.getElementById('heart'), mix=document.querySelector('#why > .rim + .col > p'), cf=hs&&hs.querySelector('.clockfig');
     hs&&[...hs.querySelectorAll('.col > p')].filter(p=>/Do you think she was happy/.test(p.textContent)).forEach(hide);
-    if(hs&&mix&&cf&&!hs.querySelector('.closecol')){ const c=document.createElement('div'); c.className='col closecol'; c.appendChild(mix);
-      const p=document.createElement('p'); p.textContent='My shoes were badly worn. I knew that when I wanted to keep them.'; c.appendChild(p);
+    if(hs&&cf&&!hs.querySelector('.closecol')){ const c=document.createElement('div'); c.className='col closecol';
+      /* v86: the mixer stays at the top of section 05; the close is her two sentences, then her last line alone */
+      const p=document.createElement('p'); p.textContent='My mother told me my shoes were beyond repair, and I believed her. Had I known this community earlier, I would have restored them and kept them.'; c.appendChild(p);
       /* v84: the shoes come back as the last picture, and her last sentence stands alone under it */
       const f=document.createElement('figure'); f.className='endshot'; f.innerHTML='<img src="img/g_shoes_end.webp" width="1000" height="1569" alt="Two white sneakers with ribbon laces lying on a dark carpet, a rainbow of light falling across them" loading="lazy">'; c.appendChild(f);
       const l=document.createElement('p'); l.className='lastline'; l.textContent='I wanted to be the one who decided when I was finished with them.'; c.appendChild(l); cf.after(c);
@@ -1472,10 +1488,10 @@ const sv=(t,a,p)=>{const e=document.createElementNS(NS,t);for(const k in a)e.set
     if(tn){ const sp=document.createElement('span'); sp.textContent=tn.nodeValue.replace(/^\.\s*/,''); hide(sp); tn.nodeValue='.'; tn.after(sp); }
     const ctr=document.getElementById('counter');
     if(ctr){ hide(ctr.querySelector('.steps > .step')); ctr.classList.add('v8two');
-      [['1','01','1 of 2'],['2','02','2 of 2']].forEach(([i,n,f])=>{ const sc=ctr.querySelector('.sc[data-i="'+i+'"]'); if(!sc) return;
+      [['1','05','1 of 2'],['2','06','2 of 2']].forEach(([i,n,f])=>{ const sc=ctr.querySelector('.sc[data-i="'+i+'"]'); if(!sc) return;
         const t=sc.querySelector('.stt'); if(t) t.textContent=t.textContent.replace(/^\d\d/,n);
         const ft=sc.querySelector('.sfoot'), x=ft&&[...ft.childNodes].find(k=>k.nodeType===3&&/of 3/.test(k.nodeValue)); if(x) x.nodeValue=x.nodeValue.replace(/\d of 3/,f); }); }
-    const oc=document.querySelector('.cfig.odds .claim'); if(oc) oc.textContent=oc.textContent.replace(/^04/,'03'); }
+    }
   /* v82: section headlines taken off the page at her request while new ones are discussed (kept in the page) */
   ['bench','history','counter-s','odds','why'].forEach(id=>hide(document.querySelector('#'+id+' > .col > h2')));
   ['bench','history','counter-s','odds','why'].forEach((id,i)=>{const k=document.querySelector('#'+id+' > .col > .kick');if(k)k.textContent=String(i+1).padStart(2,'0');});
@@ -1763,6 +1779,21 @@ document.querySelectorAll('.plbtn').forEach(b=>{b.setAttribute('tabindex','-1');
   lay(); md.addEventListener('load',lay); addEventListener('load',lay); if(window.ResizeObserver) new ResizeObserver(lay).observe(st);
   if(RM){h.classList.add('hung');return;}
   new IntersectionObserver((es,io)=>es.forEach(e=>{if(e.isIntersecting){h.classList.add('hung');io.disconnect();}}),{threshold:.35}).observe(st);
+})();
+
+
+/* 15. every graphic gets its own headline, on top, in one style (v86) */
+(()=>{
+  const hd=(fig,t,where)=>{ if(!fig) return; const h=document.createElement('h3'); h.className='ghd'; h.textContent=t; (where||fig).prepend(h); return h; };
+  hd(document.querySelector('.cfig.pegboard'),'01 · The Electronics Bench');
+  const st=document.querySelector('.st3wrap > .st3'); if(st){ const h=document.createElement('h3'); h.className='ghd st3hd'; h.textContent='02 · Inside the Stereo'; st.prepend(h); }
+  const cf=document.querySelector('.cakefig');
+  if(cf&&!cf.querySelector('.cakecard')){ const k=document.createElement('div'); k.className='cakecard';
+    k.innerHTML='<h3 class="ghd">03 · Repair Café, 2009 to 2026</h3><p>One candle for each year since the first café in Amsterdam</p><p>A dot over a candle marks a year below</p>'; cf.prepend(k); }
+  hd(document.querySelector('.apgame'),'04 · Which Table Fixes It?');
+  const oc=document.querySelector('.cfig.odds .claim'), of=document.querySelector('.cfig.odds');
+  if(oc&&of){ oc.textContent='07 · What Gets Fixed'; oc.classList.add('ghd'); of.prepend(oc); }
+  const wf=document.querySelector('#why .whyfig'); hd(wf,'08 · Why They Came');
 })();
 
 });
